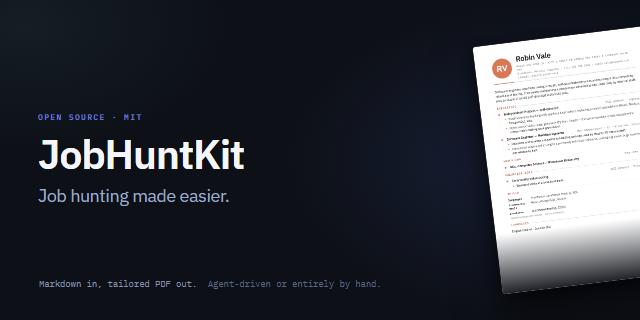
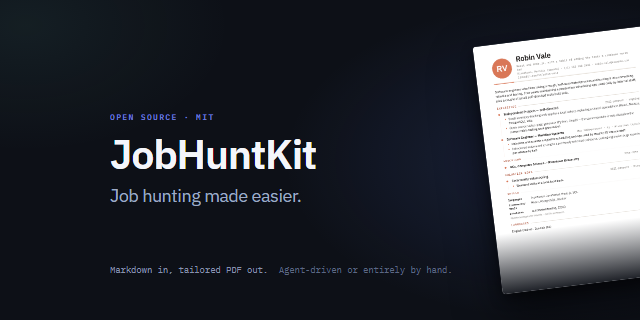
docs: lay the social card out inside GitHub's safe zone and ship a light JPEG

diff --git a/.github/make_social_card.py b/.github/make_social_card.py
@@ -134,8 +134,14 @@ body::before {{
     linear-gradient(90deg, {t["grid"]} 1px, transparent 1px);
   background-size: 48px 48px;
 }}
+/* left: 220px, not the 76px this started at. Two reasons, both measured against GitHub's own
+   repository-open-graph-template.png, whose red guides mark a safe zone of x 80..1200,
+   y 80..560. At 76px the text sat just outside the left guide; more importantly, a square
+   centre crop (x 320..960, which is what chat apps use for small link thumbnails) cut the
+   title in half. Shifting right keeps the left-aligned composition and the angled CV bleeding
+   off the right edge, while putting most of the title inside that crop band. */
 .copy {{
-  position: absolute; left: 76px; top: 50%;
+  position: absolute; left: 220px; top: 50%;
   transform: translateY(-50%); width: 640px; z-index: 2;
 }}
 .mark {{
@@ -151,8 +157,11 @@ h1 {{
   font-size: 35px; font-weight: 400; line-height: 1.28;
   letter-spacing: -0.012em; color: {t["tagline"]};
 }}
+/* bottom: 90px, not 62px — at 62px this line rendered at y 560..575, straddling the template's
+   bottom guide at y=560 and running 15px past it. It carries the one-line pitch, so it's the
+   worst thing on the card to have cropped. */
 .meta {{
-  position: absolute; left: 78px; bottom: 62px; z-index: 2;
+  position: absolute; left: 220px; bottom: 90px; z-index: 2;
   font-family: 'Plex Mono', monospace; font-size: 17px;
   letter-spacing: 0.02em; color: {t["meta"]};
 }}
@@ -207,14 +216,41 @@ def render(theme, out_dir, browser, scale=1.0, suffix=""):
     return png_path
 
 
+def to_jpeg(png_path, quality=90):
+    """PNG -> JPEG at the same resolution, ~a third of the bytes.
+
+    Why this exists: WhatsApp (and other chat clients) render a link preview as a large banner
+    only while the preview image is light enough to fetch and cache quickly. At ~270KB this
+    card was downgraded to a small square thumbnail, which crops a 2:1 image to nonsense —
+    GitHub's own auto-generated card, being flat colour, stays under that bar and keeps the
+    banner. Verified at q90: no visible banding on the dark gradient.
+    """
+    try:
+        from PIL import Image
+    except ImportError:
+        sys.exit("--jpeg needs Pillow: pip install pillow")
+
+    jpg_path = os.path.splitext(png_path)[0] + ".jpg"
+    Image.open(png_path).convert("RGB").save(
+        jpg_path, "JPEG", quality=quality, optimize=True, progressive=True
+    )
+    kb = os.path.getsize(jpg_path) / 1024
+    print(f"        -> {os.path.relpath(jpg_path, REPO)} ({kb:.0f} KB, q{quality})")
+    return jpg_path
+
+
 def main():
     ap = argparse.ArgumentParser(description=__doc__.split("\n")[0])
     ap.add_argument("--theme", choices=["light", "dark", "both"], default="both")
     ap.add_argument("--out", default=HERE, help="output directory (default: .github/)")
     ap.add_argument("--half", action="store_true",
                     help="also emit 640x320 '-640' variants. Same 1280x640 layout at half the "
-                         "device pixel ratio, so the file is roughly a quarter the size — chat "
-                         "apps that skip or degrade large preview images handle it better")
+                         "device pixel ratio, so the file is roughly a quarter the size")
+    ap.add_argument("--jpeg", action="store_true",
+                    help="also emit a full-size .jpg (~80KB vs the PNG's ~270KB). This is the "
+                         "one to upload: WhatsApp downgrades a link preview from the large "
+                         "banner to a small square thumbnail when the image is heavy, and at "
+                         "that size the card is cropped to nonsense. Needs Pillow.")
     args = ap.parse_args()
 
     if not os.path.isfile(CV_PNG):
@@ -225,9 +261,11 @@ def main():
     themes = ["dark", "light"] if args.theme == "both" else [args.theme]
     print(f"browser: {browser}")
     for theme in themes:
-        render(theme, args.out, browser)
+        png = render(theme, args.out, browser)
         if args.half:
             render(theme, args.out, browser, scale=0.5, suffix="-640")
+        if args.jpeg:
+            to_jpeg(png)
 
 
 if __name__ == "__main__":

diff --git a/scripts/audit_public.py b/scripts/audit_public.py
@@ -69,6 +69,10 @@ BINARY_ALLOWLIST_EXACT = [
     # bytes, for chat apps that skip or degrade large link-preview images.
     ".github/social-preview-640.png",
     ".github/social-preview-light-640.png",
+    # The JPEG is the variant actually uploaded to GitHub: same 1280x640, ~a third of the
+    # bytes, which keeps chat clients rendering the large banner instead of a cropped
+    # square thumbnail.
+    ".github/social-preview.jpg",
 ]
 # .woff2 is always allowed anywhere under render-support/fonts/ — covered by the prefix above,
 # not re-listed here.
